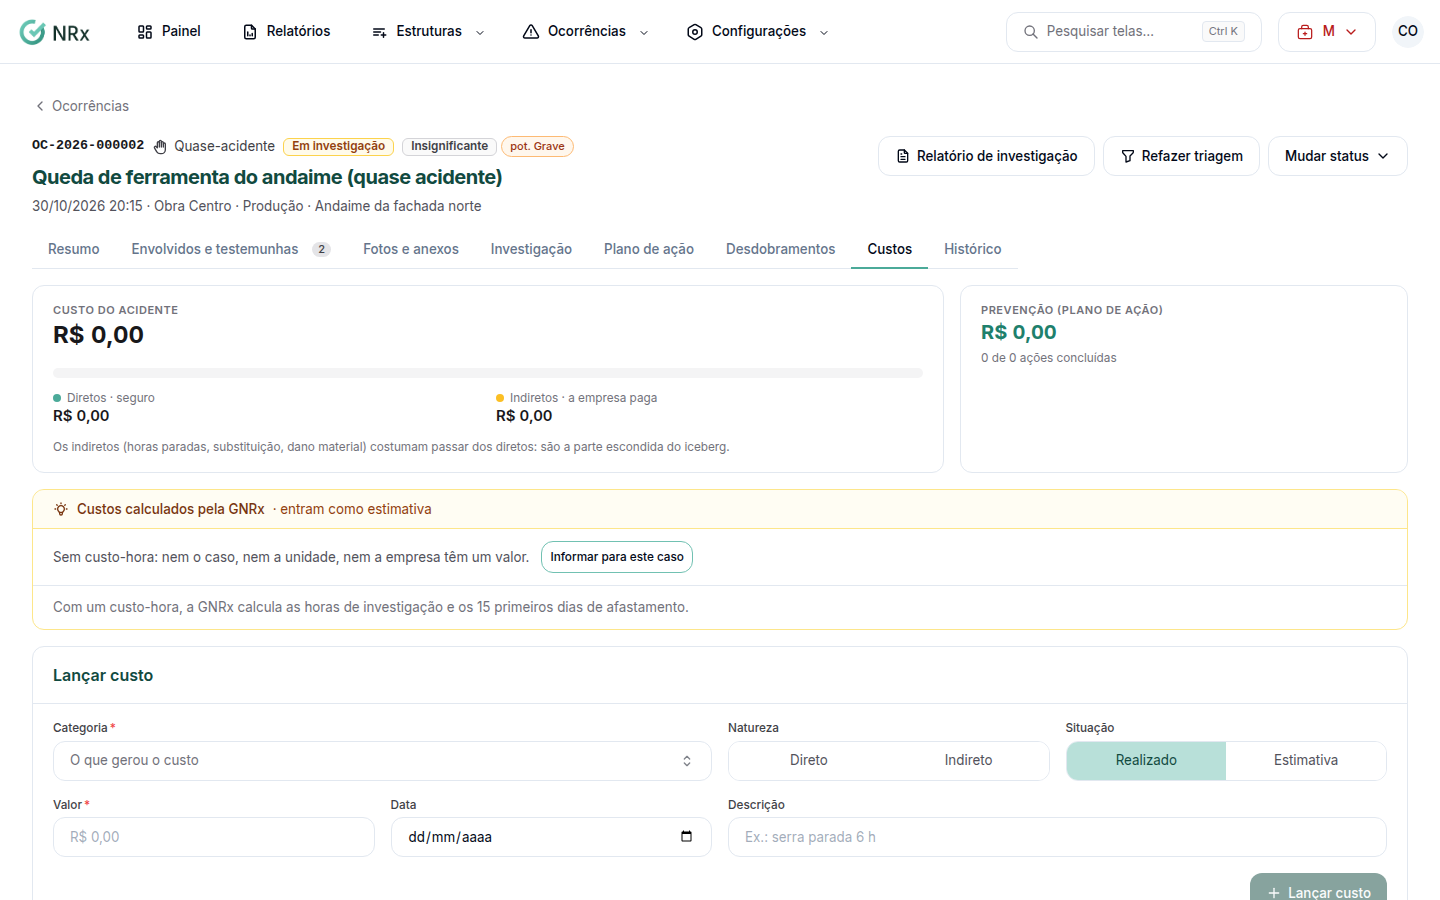
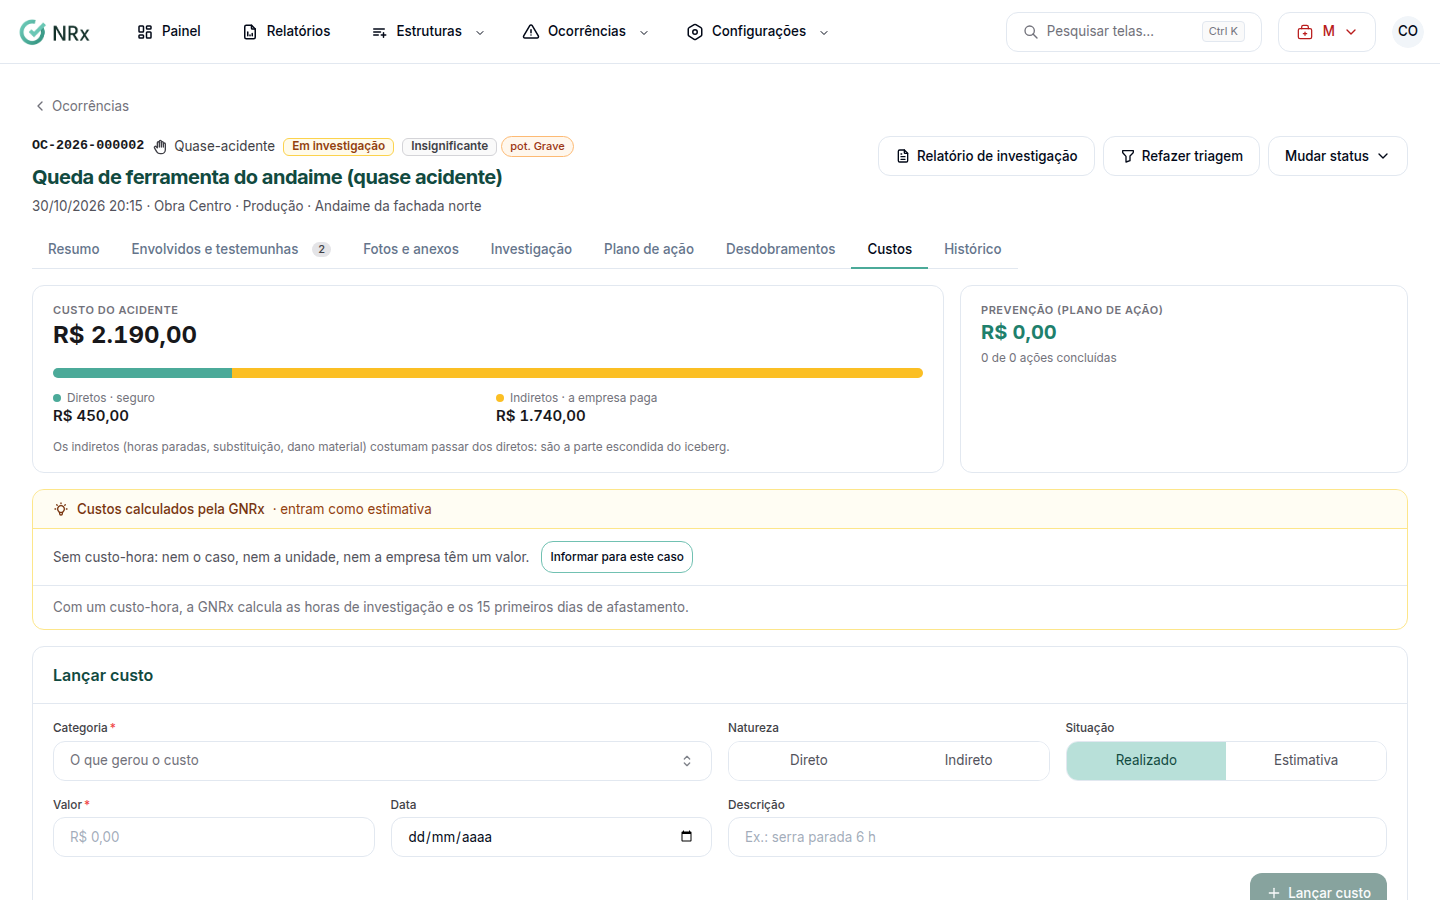
docs: prints de Acidentes e Documentos; abas da estabilidade, quando aparecem o afastamento e a liberação

Changed region(s): [[0.0312, 0.3422, 0.6562, 0.4667]]

diff --git a/acidentes/estabilidades/acompanhar-estabilidade.md b/acidentes/estabilidades/acompanhar-estabilidade.md
@@ -39,7 +39,9 @@ layout:
 {% step %}
 ### Abra as estabilidades
 
-Clique em **Ocorrências › Estabilidade acidentária**. A lista mostra **Colaborador**, **Ocorrência**, **Unidade**, **Afastado desde** e **Garantia**.
+Clique em **Ocorrências › Estabilidade acidentária**. A lista mostra **Colaborador**, **Ocorrência**, **Unidade**, **Afastado desde** e **Garantia**, separada nas abas **Vigentes**, **Afastados**, **Encerradas** e **Canceladas**.
+
+Ex.: quem ainda está afastado aparece em **Afastados**. Ele só passa para **Vigentes** depois do retorno, porque os 12 meses de garantia começam a contar na volta ao trabalho.
 
 <figure><img src="../.gitbook/assets/estabilidades-lista-01.png" alt="Tela Estabilidade acidentária com a lista de colaboradores e a garantia"><figcaption><p>Estabilidade acidentária</p></figcaption></figure>
 {% endstep %}

diff --git a/acidentes/ocorrencias/registrar-afastamento.md b/acidentes/ocorrencias/registrar-afastamento.md
@@ -32,6 +32,7 @@ layout:
 ## Antes de começar
 
 * O acidentado precisa estar em [Envolvidos e testemunhas](envolvidos-e-testemunhas.md).
+* **Registrar afastamento** só aparece para o envolvido que não está afastado. Se ele voltou e se afastou de novo pelo mesmo acidente, o botão aparece outra vez.
 
 ## Passo a passo
 

diff --git a/documentos/liberacoes/solicitar-liberacao.md b/documentos/liberacoes/solicitar-liberacao.md
@@ -31,6 +31,7 @@ layout:
 
 ## Antes de começar
 
+* **Solicitar liberação** só aparece para quem está com a documentação irregular, na ficha da contratada ou na lista da equipe.
 * A liberação vale no máximo 180 dias.
 
 ## Passo a passo
